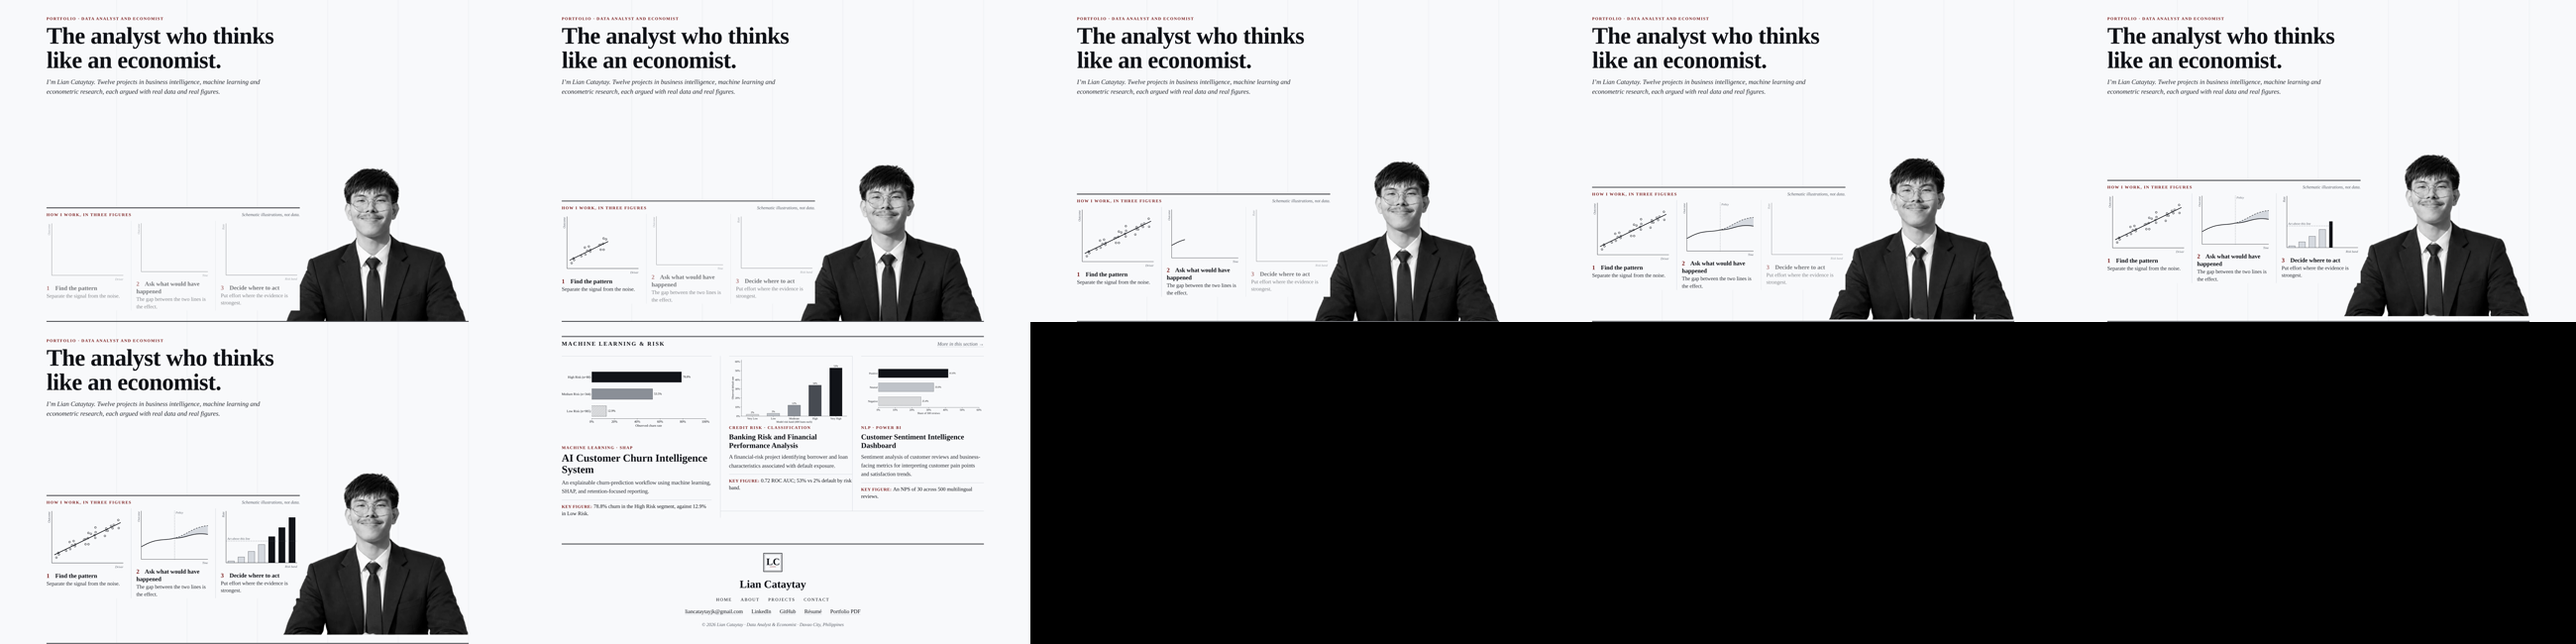
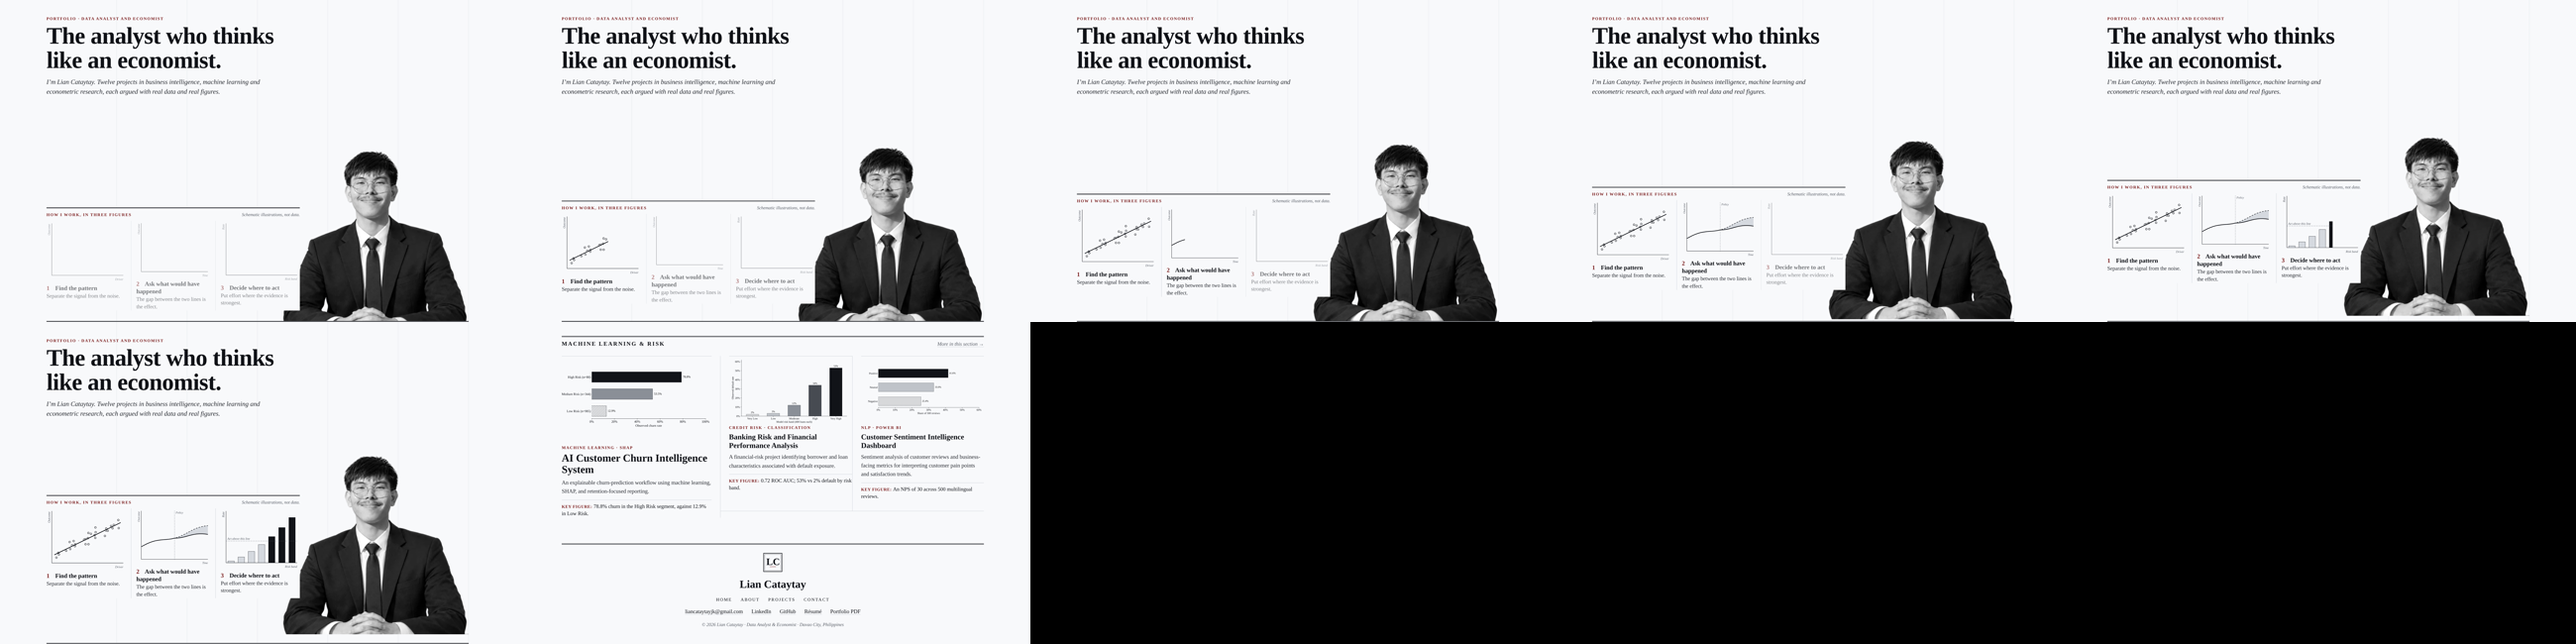
Hero: use the final headshot
Switch the front-page portrait to the final photo (already cut out, hands
clasped). tools/hero_portrait.py now keeps a supplied transparent
background, takes its contrast from the subject only, and can trim a strip
off the bottom (used here to drop the desk edge).

Claude-Session: https://claude.ai/code/session_01JYRCvEvee1Zgg8h4ZVXgSy

diff --git a/index.html b/index.html
@@ -85,7 +85,7 @@
             <p class="plate-deck">I&rsquo;m Lian Cataytay. Twelve projects in business intelligence, machine learning and econometric research, each argued with real data and real figures.</p>
           </div>
           <div class="plate-subject" data-sc-parallax="-0.5">
-            <img src="assets/hero/portrait.webp" width="545" height="475" alt="Lian Cataytay, in a dark suit and tie, smiling">
+            <img src="assets/hero/portrait.webp" width="594" height="572" alt="Lian Cataytay, in a dark suit and tie, smiling with hands clasped">
           </div>
           <figure class="plate-steps" data-sc-parallax="-1.0">
             <figcaption class="steps-head"><span class="kicker">How I work, in three figures</span><span class="steps-note">Schematic illustrations, not data.</span></figcaption>

diff --git a/tools/hero_portrait.py b/tools/hero_portrait.py
@@ -1,8 +1,9 @@
 """Cut the headshot out of its white background for the front-page hero.
 
-Usage: python3 tools/hero_portrait.py <headshot> <out_dir>
+Usage: python3 tools/hero_portrait.py <headshot> <out_dir> [trim_bottom_px]
 
-The background is near-white and touches the top, left and right edges. It is
+A headshot that already has a transparent background keeps its own alpha.
+Otherwise the background is near-white and touches the top, left and right edges. It is
 flood-filled from those edges only, because the white shirt reaches the bottom
 edge and must stay opaque. Edge pixels get a soft alpha from how far they are
 from white, then the portrait is converted to black and white.
@@ -14,10 +15,14 @@ import numpy as np
 from PIL import Image, ImageDraw, ImageFilter, ImageOps
 
 src, out = Path(sys.argv[1]), Path(sys.argv[2])
+trim = int(sys.argv[3]) if len(sys.argv) > 3 else 0  # e.g. a desk edge along the bottom
 out.mkdir(parents=True, exist_ok=True)
-rgb = Image.open(src).convert("RGB")
+original = Image.open(src)
+original = original.crop((0, 0, original.width, original.height - trim))
+rgb = original.convert("RGB")
 a = np.asarray(rgb).astype(np.int16)
 w, h = rgb.size
+has_alpha = original.mode == "RGBA" and np.asarray(original)[..., 3].min() < 10
 
 # 1. Near-white mask, framed on three sides so one flood reaches every edge but the bottom.
 near_white = (a.min(axis=2) >= 236).astype(np.uint8) * 255
@@ -39,13 +44,18 @@ alpha[edge] = np.clip(whiteness[edge] / 40.0, 0, 1) * 255
 alpha_img = Image.fromarray(alpha.astype(np.uint8), "L").filter(ImageFilter.GaussianBlur(0.6))
 
 alpha_img = alpha_img.filter(ImageFilter.MinFilter(3))  # pull the edge in one pixel
+if has_alpha:  # already cut out: trust the supplied matte
+    alpha_img = original.getchannel("A")
 
 # 3. Black and white, gently lifted contrast. Edge pixels were blended with the
 #    white backdrop, so un-mix the white out of them to avoid a light fringe.
-grey = np.asarray(ImageOps.autocontrast(ImageOps.grayscale(rgb), cutoff=0.5)).astype(np.float32)
 al = np.asarray(alpha_img).astype(np.float32) / 255
+grey = np.asarray(ImageOps.grayscale(rgb)).astype(np.float32)
+lo, hi = np.percentile(grey[al > 0.5], [0.5, 99.5])  # contrast from the subject only
+grey = np.clip((grey - lo) * 255 / max(hi - lo, 1), 0, 255)
 soft = (al > 0.02) & (al < 0.98)
-grey[soft] = np.clip((grey[soft] - 255 * (1 - al[soft])) / al[soft], 0, 255)
+if not has_alpha:
+    grey[soft] = np.clip((grey[soft] - 255 * (1 - al[soft])) / al[soft], 0, 255)
 portrait = Image.merge("LA", (Image.fromarray(grey.astype(np.uint8), "L"), alpha_img)).convert("RGBA")
 
 # 4. Trim to the subject and export two sizes.

diff --git a/README.md b/README.md
@@ -71,7 +71,7 @@ plate is static and complete.
 
 - Engine: `assets/scrollcraft/` (unmodified scroll-craft runtime); page code: `assets/hero.js`.
 - Layers: `assets/hero/`. `story.json` (the figures' geometry) comes from `tools/figures.py`;
-  the portrait cutout comes from `python3 tools/hero_portrait.py <headshot> assets/hero`.
+  the portrait cutout comes from `python3 tools/hero_portrait.py <headshot> assets/hero 22` (the last number trims a desk edge off the bottom).
 - Planning, brief and verification: `_scrollcraft/` (set in `.scrollcraft.json`). Jekyll
   skips underscore folders, so GitHub Pages does not publish it.
 

diff --git a/_scrollcraft/builds/hero/BRIEF.md b/_scrollcraft/builds/hero/BRIEF.md
@@ -93,5 +93,5 @@ greys, and one oxblood accent.
 > figures that makes sense narratively and visually (not necessarily
 > project-based, reserve the project-based for the actual projects)"
 
-Done: new headshot; the clippings and CARP chart replaced by three schematic
+Done: new headshot (final: a pre-cut photo with hands clasped, desk edge trimmed); the clippings and CARP chart replaced by three schematic
 method figures of equal size, labelled "Schematic illustrations, not data."
